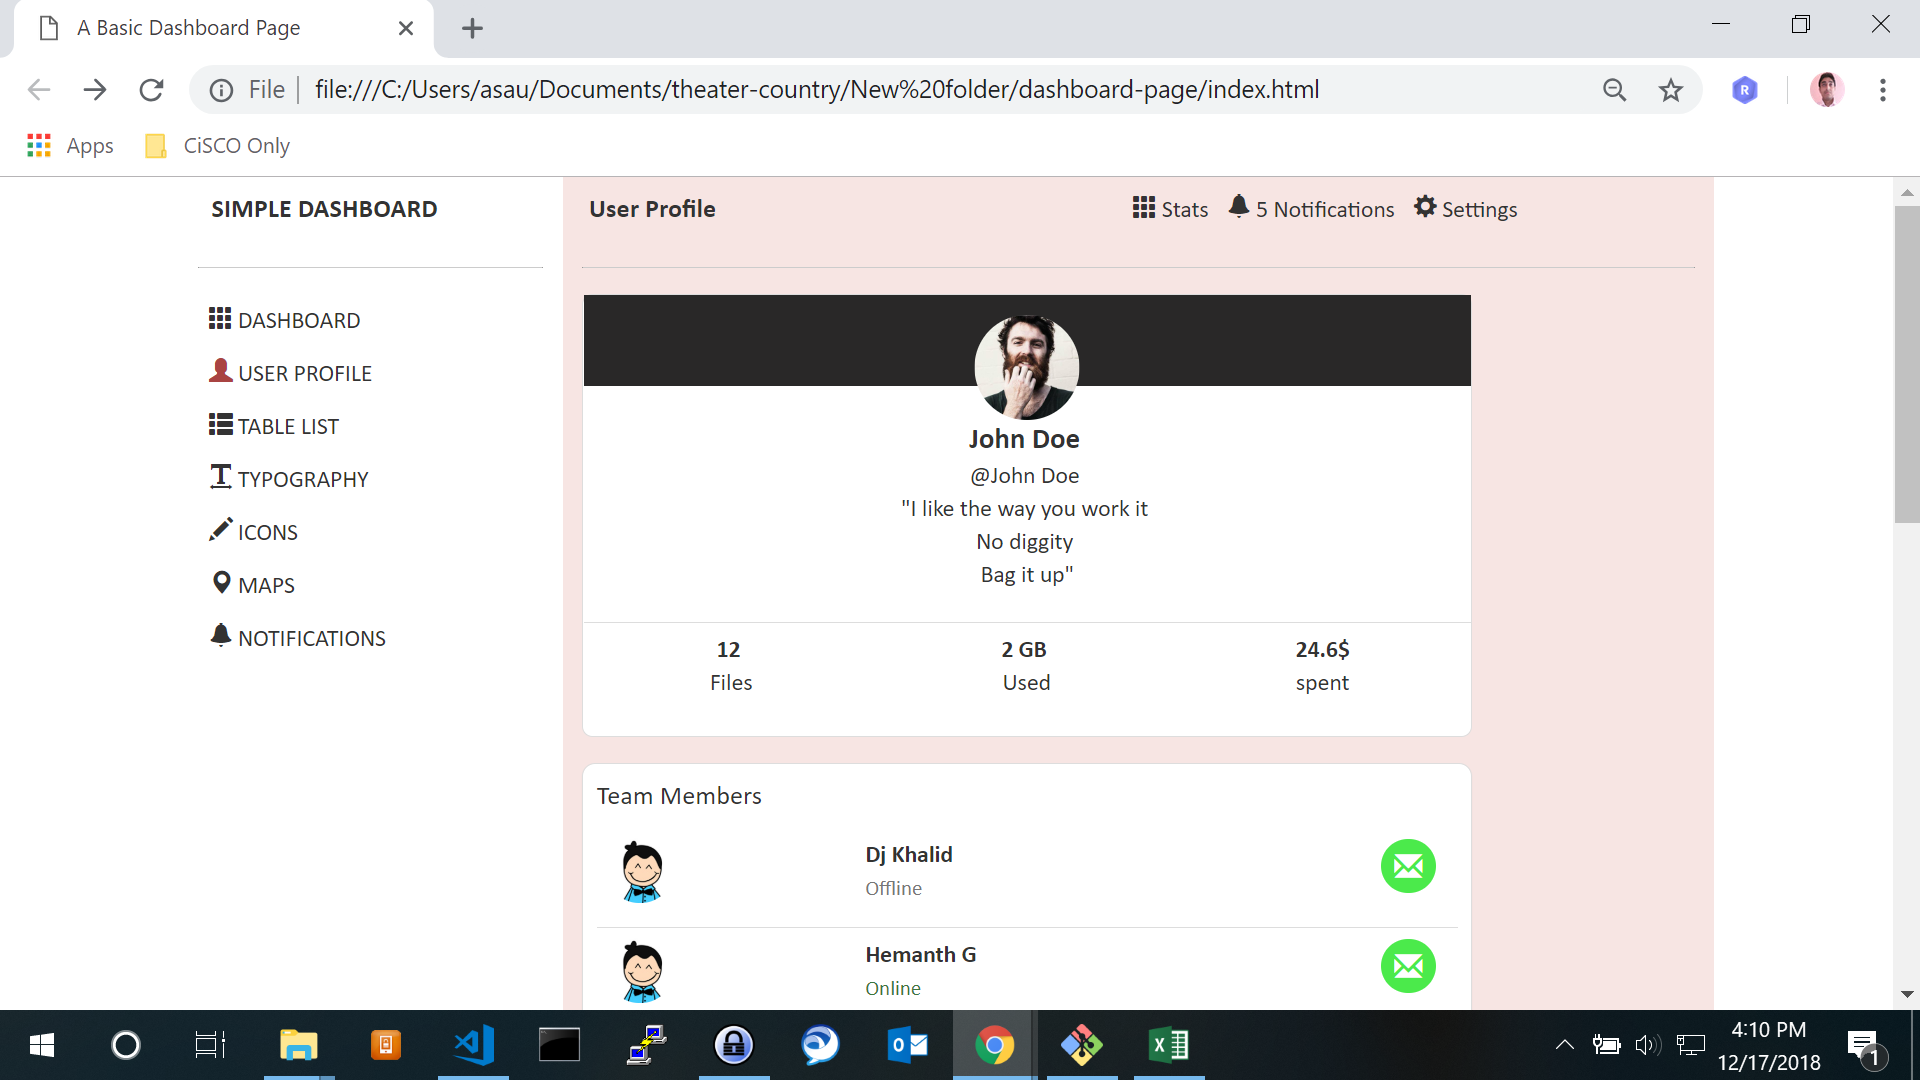
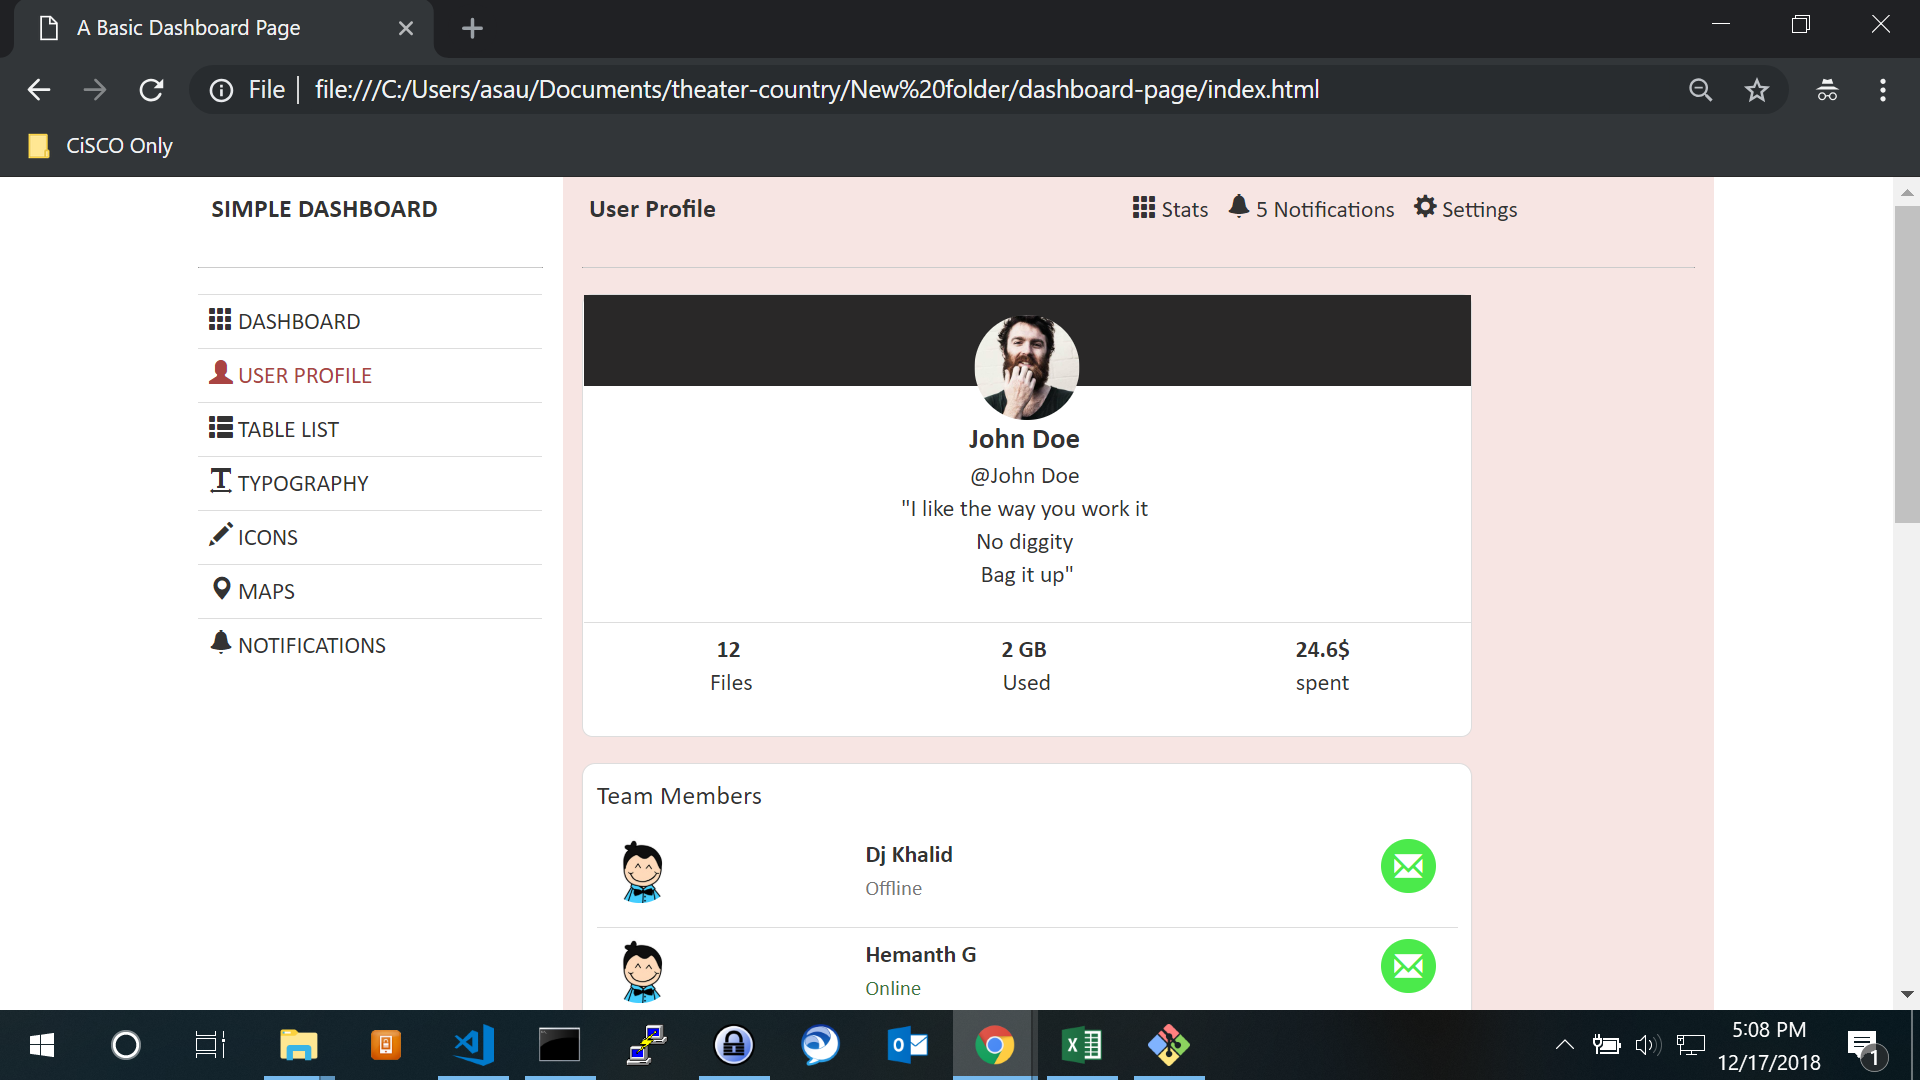
links hovering updated

diff --git a/index.html b/index.html
@@ -26,36 +26,37 @@
 						<hr></strong></p>
 				<table class="table">
 					<tr>
-						<td style="border: 0px ;"><span class="glyphicon glyphicon-th icon-span"></span> DASHBOARD
+						<td class="bod0 icon-span">
+							<span class="glyphicon glyphicon-th"></span> DASHBOARD
 						</td>
 					</tr>
 					<tr>
-						<td style="border: 0px ;">
-							<span class="glyphicon glyphicon-user text-danger icon-span"></span> USER PROFILE</td>
+						<td class="bod0 icon-span text-danger">
+							<span class="glyphicon glyphicon-user "></span> USER PROFILE</td>
 					</tr>
 					<tr>
-						<td style="border: 0px ;">
-							<span class="glyphicon glyphicon-th-list icon-span"></span> TABLE LIST
+						<td class="bod0 icon-span">
+							<span class="glyphicon glyphicon-th-list"></span> TABLE LIST
 						</td>
 					</tr>
 					<tr>
-						<td style="border: 0px ;">
-							<span class="glyphicon glyphicon-text-width icon-span"></span> TYPOGRAPHY
+						<td class="bod0 icon-span">
+							<span class="glyphicon glyphicon-text-width"></span> TYPOGRAPHY
 						</td>
 					</tr>
 					<tr>
-						<td style="border: 0px ;">
-							<span class="glyphicon glyphicon-pencil icon-span"></span> ICONS
+						<td class="bod0 icon-span">
+							<span class="glyphicon glyphicon-pencil"></span> ICONS
 						</td>
 					</tr>
 					<tr>
-						<td style="border: 0px ;">
-							<span class="glyphicon glyphicon-map-marker icon-span"></span> MAPS
+						<td class="bod0 icon-span">
+							<span class="glyphicon glyphicon-map-marker"></span> MAPS
 						</td>
 					</tr>
 					<tr>
-						<td style="border: 0px ;">
-							<span class="glyphicon glyphicon-bell icon-span"></span> NOTIFICATIONS
+						<td class="bod0 icon-span">
+							<span class="glyphicon glyphicon-bell "></span> NOTIFICATIONS
 						</td>
 					</tr>
 				</table>
@@ -67,9 +68,9 @@
 
 					<ul class="list-inline">
 						<li class="pad10 font20"> <strong>User Profile</strong></li>
-						<li style="margin-left: 35%"> <span class="glyphicon glyphicon-th icon-span"></span> Stats</li>
-						<li float="right"> <span class="glyphicon glyphicon-bell icon-span"></span> 5 Notifications</li>
-						<li float="right"> <span class="glyphicon glyphicon-cog icon-span"></span> Settings</li>
+						<li style="margin-left: 35%" class="icon-span"> <span class="glyphicon glyphicon-th icon-span"></span> Stats</li>
+						<li float="right" class="icon-span"> <span class="glyphicon glyphicon-bell"></span> 5 Notifications</li>
+						<li float="right" class="icon-span"> <span class="glyphicon glyphicon-cog icon-span"></span> Settings</li>
 					</ul>
 
 				</div>

diff --git a/css/style.css b/css/style.css
@@ -131,3 +131,7 @@ input[type=text]:focus, textarea:focus {
 .icon-span:hover {
 	color:#ae3c3c;
 }
+
+.bod0 {
+	border: 0px ;
+}
